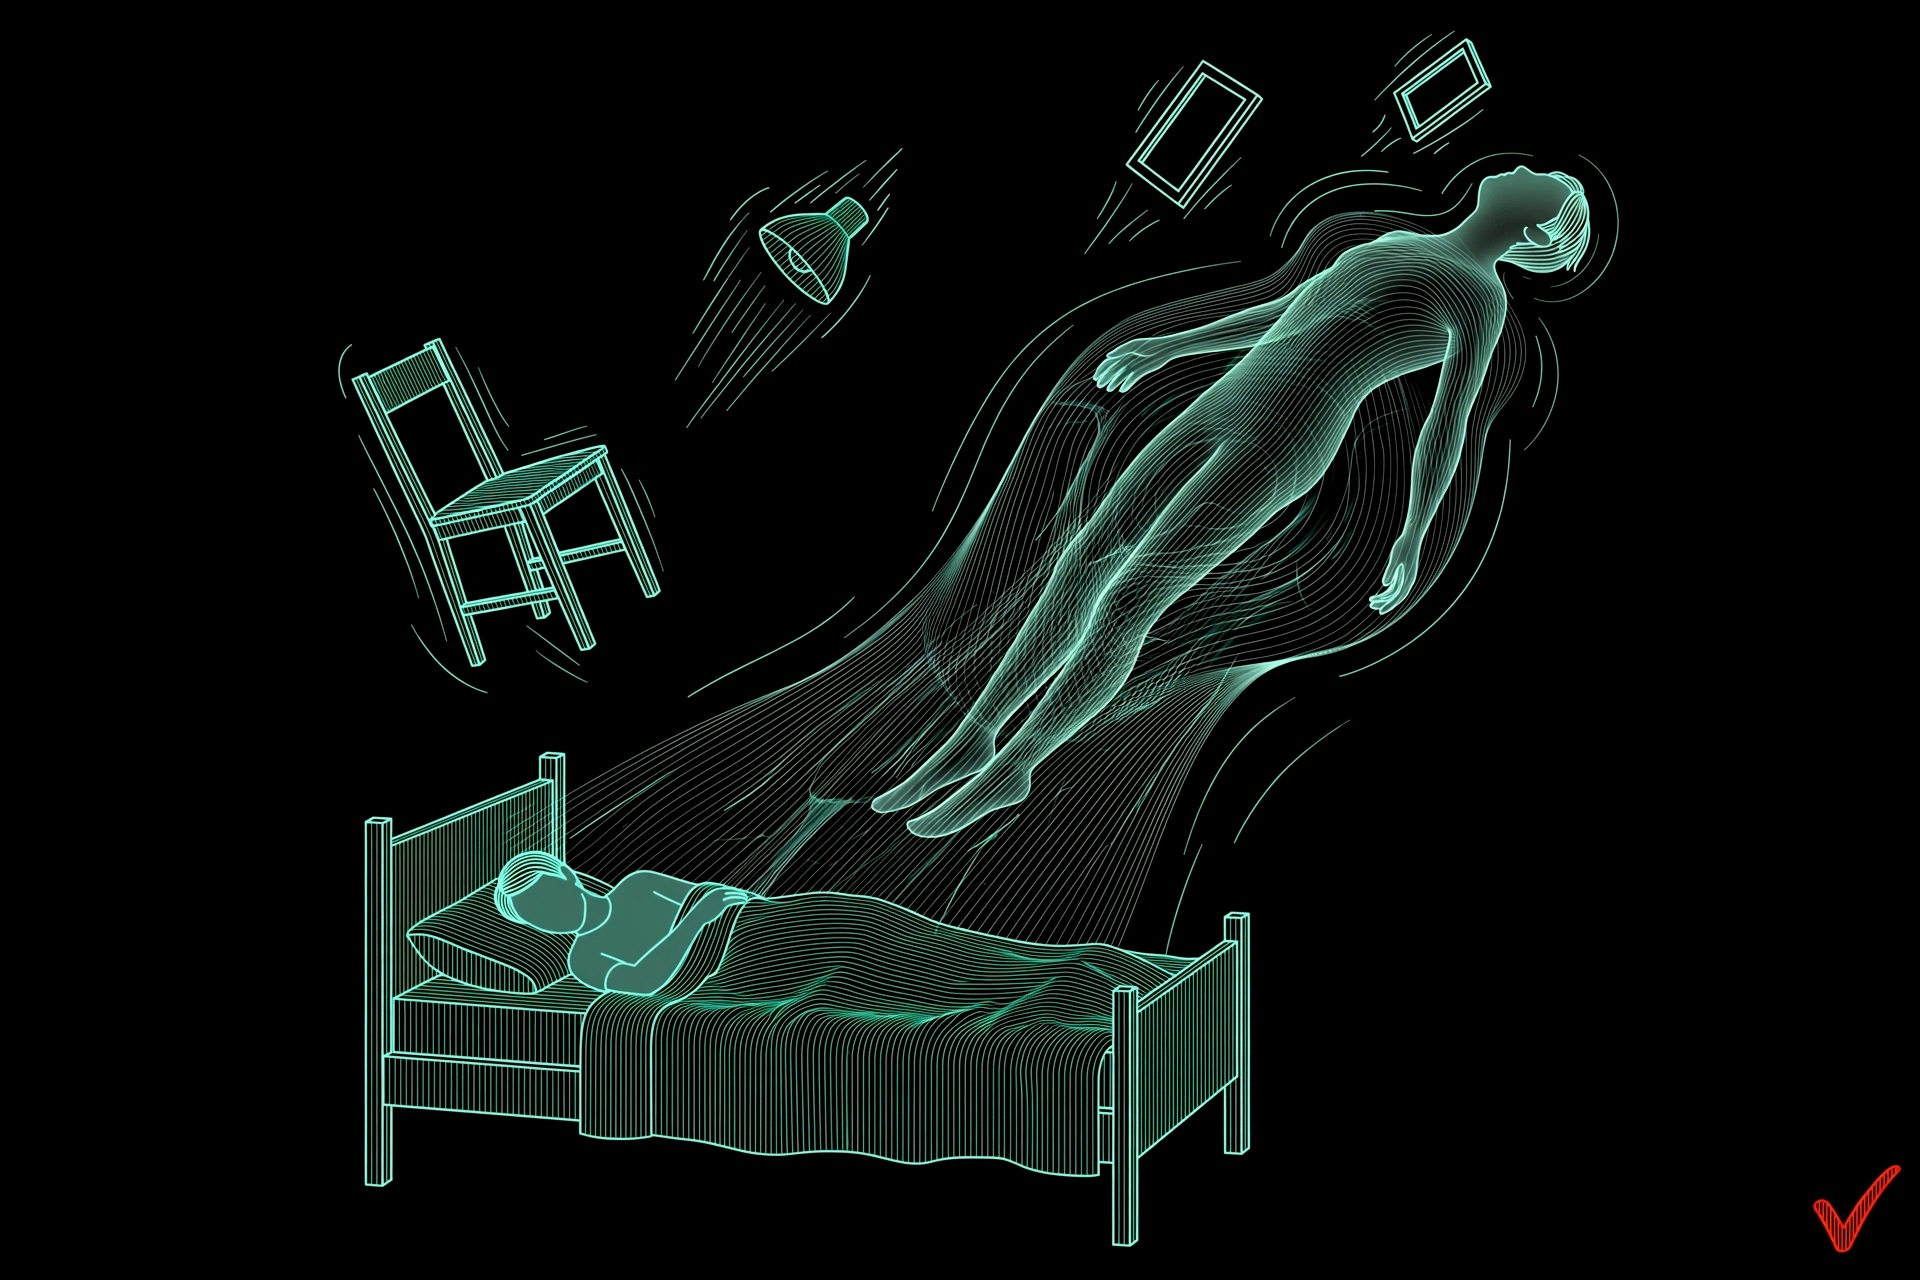
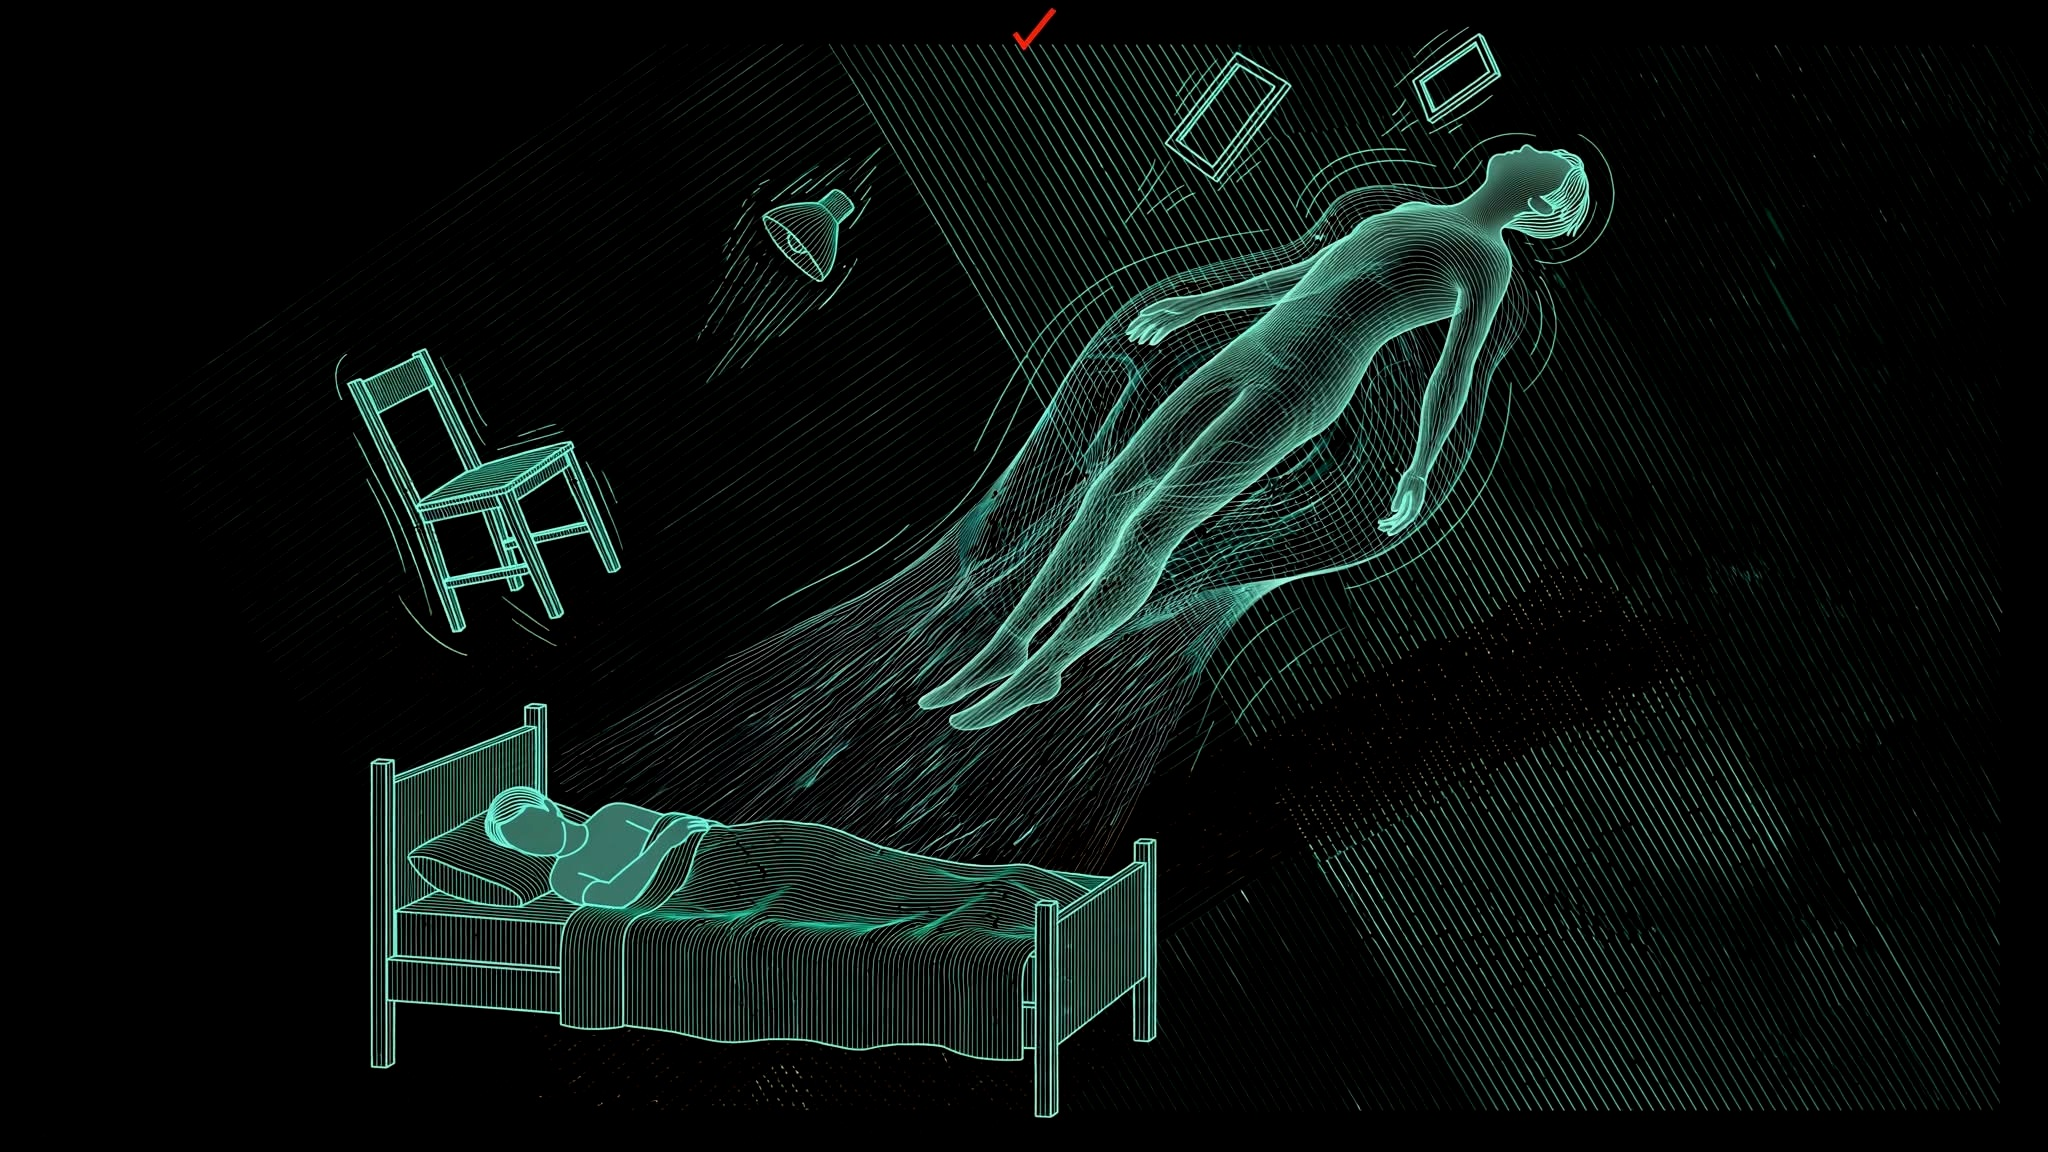
Dreams reel v4 B: regenerated matched-style frames (rest, levitation, soul pull)
Claude-Session: https://claude.ai/code/session_01CvwsJjwBDbHwT6fzsaVftT

diff --git a/tools/tickle/three/scene12b.js b/tools/tickle/three/scene12b.js
@@ -36,12 +36,12 @@ const partMat = (tex, dep, ds, d0, asp) => new THREE.ShaderMaterial({
       gl_FragColor=vec4(c*f*st*a*uOp,1.0); }`
 });
 const worlds = [];
-const WD = [{k: 'rest', w: 19, A: 0.0, D: 1.4, ds: 2}, {k: 'sleep', w: 14, A: 1.4, D: 1.7, ds: 3}, {k: 'soulpull', w: 14, A: 3.1, D: 2.6, ds: 3}, {k: 'bedfall', w: 14, A: 5.7, D: 3.0, ds: 3}, {k: 'brain', w: 13, A: 8.7, D: 2.6, ds: 2.2}, {k: 'head', w: 22, A: 11.3, D: 2.6, ds: 3}];
+const WD = [{k: 'rest', w: 19, A: 0.0, D: 1.4, ds: 2}, {k: 'sleep', w: 14, A: 1.4, D: 1.7, ds: 3}, {k: 'soulpull', w: 15, A: 3.1, D: 2.6, ds: 3}, {k: 'bedfall', w: 14, A: 5.7, D: 3.0, ds: 3}, {k: 'brain', w: 13, A: 8.7, D: 2.6, ds: 2.2}, {k: 'head', w: 22, A: 11.3, D: 2.6, ds: 3}];
 // part boxes in image coords (u0,v0,u1,v1; v down)
 const PARTS = {
   rest: {lamp: [0.22, 0.42, 0.37, 0.97], frames: [0.23, 0.04, 0.38, 0.37]},
-  sleep: {bed: [0.19, 0.38, 0.88, 0.92], objs: [0.0, 0.0, 0.82, 0.46]},
-  soulpull: {fig: [0.45, 0.11, 0.885, 0.70], objs: [0.17, 0.03, 0.80, 0.55]},
+  sleep: {bed: [0.20, 0.38, 0.80, 0.97], objs: [0.0, 0.0, 0.80, 0.45]},
+  soulpull: {fig: [0.44, 0.115, 0.79, 0.64], objs: [0.16, 0.03, 0.74, 0.56]},
   bedfall: {fig: [0.365, 0.083, 0.575, 0.517], frames: [0.01, 0.125, 0.43, 0.842], bed: [0.45, 0.417, 0.85, 0.942]},
   brain: {fig: [0.545, 0.46, 0.64, 0.76]},
   head: {fig: [0.465, 0.43, 0.56, 0.66]},
@@ -66,7 +66,7 @@ const [WR, WSl, WS, WB, WBr, WH] = worlds;
 
 // ---------- the dreamer's red tick: a real path through the whole fall ----------
 const startVec = WB.P(0.735, 0.47).sub(WB.P(0.545, 0.425));
-const soulStart = WS.P(0.40, 0.72).sub(WS.P(0.64, 0.40));
+const soulStart = WS.P(0.33, 0.74).sub(WS.P(0.62, 0.37));
 const soulOff = tl => { const q = clamp((tl - 0.5) / 1.6); return V3(soulStart.x * (1 - ease(q)), soulStart.y * (1 - ease(q)) + 0.18 * Math.sin(tl * 2.1) * q, 0); };
 function figOffset(i, tl) {
   if (i === 0 || i === 1) return V3(0, 0, 0);
@@ -75,7 +75,7 @@ function figOffset(i, tl) {
   if (i === 4) return V3(0.1 * Math.sin(tl * 2.2), -0.9 * tl - 0.12 * tl * tl, 0);
   return V3(0.05 * Math.sin(tl * 1.6), -0.38 * tl, 0);
 }
-function tickLocal(i, tl) { if (i === 0) return WR.P(0.5, 0.035).lerp(WR.P(0.69, 0.22).add(V3(0, 0.9, 0)), sm(tl / 0.9)); if (i === 1) { const rise = 0.9 * sm((tl - 1.0) / 0.7); return WSl.P(0.37, 0.46).add(V3(0, 0.9 + rise + 0.1 * Math.sin(tl * 3), 0)); } if (i === 2) { const q = clamp((tl - 0.5) / 1.6), a = WS.P(0.276, 0.655).add(V3(0, 0.12 * Math.sin(tl * 3), 0)), b = WS.P(0.795, 0.17).add(soulOff(tl)).add(V3(0, 0.9, 0)); return a.lerp(b, ease(q)); } const o = figOffset(i, tl); const base = i === 2 ? WS.P(0.64, 0.40) : i === 3 ? WB.P(0.545, 0.425) : i === 4 ? WBr.P(0.59, 0.60) : WH.P(0.51, 0.53); return base.add(o).add(V3(0, i === 2 ? 0.0 : i === 3 ? 0.95 : i === 4 ? 0.55 : 0.6, 0)); }
+function tickLocal(i, tl) { if (i === 0) return WR.P(0.5, 0.035).lerp(WR.P(0.69, 0.22).add(V3(0, 0.9, 0)), sm(tl / 0.9)); if (i === 1) { const rise = 0.9 * sm((tl - 1.0) / 0.7); return WSl.P(0.37, 0.46).add(V3(0, 0.9 + rise + 0.1 * Math.sin(tl * 3), 0)); } if (i === 2) { const q = clamp((tl - 0.5) / 1.6), a = WS.P(0.26, 0.64).add(V3(0, 0.12 * Math.sin(tl * 3), 0)), b = WS.P(0.75, 0.15).add(soulOff(tl)).add(V3(0, 0.9, 0)); return a.lerp(b, ease(q)); } const o = figOffset(i, tl); const base = i === 2 ? WS.P(0.62, 0.37) : i === 3 ? WB.P(0.545, 0.425) : i === 4 ? WBr.P(0.59, 0.60) : WH.P(0.51, 0.53); return base.add(o).add(V3(0, i === 2 ? 0.0 : i === 3 ? 0.95 : i === 4 ? 0.55 : 0.6, 0)); }
 const alignWorlds = () => { for (let k = 1; k < worlds.length; k++) { const a = tickLocal(k - 1, worlds[k - 1].D - TR), b = tickLocal(k, 0), dx = a.x - b.x, dy = a.y - b.y, w = worlds[k];
   w.C.x += dx; w.C.y += dy; w.base.position.x += dx; w.base.position.y += dy; Object.values(w.parts).forEach(p => { p.userData.rest.x += dx; p.userData.rest.y += dy; p.position.copy(p.userData.rest); });
   const pl = fieldMats[k].userData.plane; pl.position.x += dx; pl.position.y += dy; fieldMats[k].uniforms.uA.value.x += dx; fieldMats[k].uniforms.uA.value.y += dy; } };
@@ -135,7 +135,7 @@ const keys = (arr, tl) => { for (let i = 0; i < arr.length - 1; i++) if (tl <= a
 const DIST = [[[0, 21], [0.85, 12]], [[0, 11], [1.0, 12.5], [1.15, 12.5]], [[0, 9], [0.7, 10.5], [1.9, 22], [2.05, 22]], [[0, 9], [0.6, 9.5], [1.9, 18], [2.3, 19], [2.45, 18]], [[0, 22], [1.0, 22], [2.05, 16], [2.2, 15]], [[0, 25], [1.2, 22], [2.6, 16]]];
 function distAt(i, tl) { return keys(DIST[i], tl); }
 function targetFor(i, tl, tick) { const tg = tick.clone(); if (i === 0) tg.lerp(WR.P(0.56, 0.52), 0.85 * (1 - sm((tl - 0.3) / 0.6)));
-  if (i === 2) tg.lerp(WS.P(0.62, 0.42).add(soulOff(tl)), 0.65 * sm((tl - 0.9) / 0.9)); if (i === 4) tg.lerp(WBr.P(0.5, 0.5), 0.55 * (1 - sm(tl / 1.6))); if (i === 5) tg.lerp(WH.P(0.68, 0.23), 0.65 * sm((tl - 0.1) / 0.5) * (1 - sm((tl - 1.7) / 0.6)));
+  if (i === 2) tg.lerp(WS.P(0.60, 0.40).add(soulOff(tl)), 0.65 * sm((tl - 0.9) / 0.9)); if (i === 4) tg.lerp(WBr.P(0.5, 0.5), 0.55 * (1 - sm(tl / 1.6))); if (i === 5) tg.lerp(WH.P(0.68, 0.23), 0.65 * sm((tl - 0.1) / 0.5) * (1 - sm((tl - 1.7) / 0.6)));
   return tg; }
 function frameAt(t) {
   let i = worlds.length - 1; for (let k = 0; k < worlds.length - 1; k++) if (t < worlds[k + 1].A) { i = k; break; }
@@ -165,11 +165,11 @@ window.renderAt = t => {
       const q = clamp((lt - 0.5) / 1.6), e = ease(q), F = w.parts.fig.material.uniforms, O = w.parts.objs.material.uniforms;
       w.base.material.uniforms.uTeal.value = 1.25 + 0.15 * Math.sin(lt * 3.0); w.base.material.uniforms.uRed.value = 1.5; // the sleeper breathes and stays
       pr(2, 'fig', {p: soulOff(lt), s: lerp(0.8, 1, e), rz: lerp(-0.25, 0, e)});
-      F.uRev.value.set(0.64, 0.42, 0.04 + 0.9 * sm((lt - 0.45) / 1.2)); F.uOp.value *= sm((lt - 0.45) / 0.4); F.uTeal.value = 1.5; F.uPulse.value.set(0.5, 0.45, ((lt * 0.8) % 1) * 0.6, 0.45);
+      F.uRev.value.set(0.47, 0.41, 0.04 + 0.9 * sm((lt - 0.45) / 1.2)); F.uOp.value *= sm((lt - 0.45) / 0.4); F.uTeal.value = 1.5; F.uPulse.value.set(0.5, 0.45, ((lt * 0.8) % 1) * 0.6, 0.45);
       pr(2, 'objs', {p: V3(0.22 * lt, 0.45 * lt, 0), rz: 0.03 * lt}); O.uOp.value *= sm((lt - 1.0) / 0.6); O.uTeal.value = 1.4;
     } else if (wi === 3) {
       setAll(u => { u.uRed.value = 1.3 + 1.2 * (0.5 + 0.5 * Math.sin(lt * 8)); });
-      WB.base.material.uniforms.uTeal.value = 0.12; WB.base.material.uniforms.uRed.value = 0.2; // drop the hatch panel; the action is in the parts
+      WB.base.material.uniforms.uTeal.value = 0.4; WB.base.material.uniforms.uRed.value = 0.2; // drop the hatch panel; the action is in the parts
       WB.parts.fig.material.uniforms.uTeal.value = 1.7; WB.parts.frames.material.uniforms.uTeal.value = 1.4;
       pr(3, 'fig', {s: 1.25, p: figOffset(3, lt), rz: 0.35 * (1 - easeOut(lt / 0.9)) + 0.06 * Math.sin(lt * 2.2)}); WB.parts.frames.material.uniforms.uOp.value *= sm((lt - 0.1) / 0.5);
       // the sleeper stays: breathing glow on the bed while the dream body leaves

diff --git a/tools/tickle/three/prep_dreams_v3.py b/tools/tickle/three/prep_dreams_v3.py
@@ -21,9 +21,9 @@ K = {
     "heaven": ("20261015_145928", None, (0.52, 0.35), 0.04),
     "eye": ("20261015_145844", None, (0.5, 0.52), 0.10),
     "bed": ("20261015_144811", None, (0.52, 0.30), 0.25),
-    "rest": ("rest0", None, (0.69, 0.22), 0.1),
-    "sleep": ("20261015_164748", None, (0.37, 0.46), 0.2),
-    "soulpull": ("20261015_165026", None, (0.64, 0.40), 0.5),
+    "rest": ("rest1", None, (0.69, 0.22), 0.1),
+    "sleep": ("lev1", None, (0.365, 0.46), 0.2),
+    "soulpull": ("soul1", None, (0.62, 0.37), 0.5),
     "sleeper": ("20261015_144736", None, (0.5, 0.2), 0.3),
     "head": ("20261015_153816", None, (0.51, 0.53), 0.08),
     "rem": ("20261015_153813", None, (0.56, 0.60), 0.10),
@@ -32,7 +32,7 @@ K = {
     "lucid": ("20261015_153812", None, (0.55, 0.51), 0.40),
     "loopcard": ("20261015_153807_1", None, (0.50, 0.45), 0.03),
 }
-MASK = {"bedfall": (0, 0, 0.09, 0.07), "rest": (0, 0, 0.12, 0.08)}
+MASK = {"bedfall": (0, 0, 0.09, 0.07), "rest": (0, 0, 0.12, 0.08), "soulpull": (0, 0, 0.12, 0.08)}
 s = ort.InferenceSession(model); mean = np.array([0.485, 0.456, 0.406]); std = np.array([0.229, 0.224, 0.225]); meta = json.load(open('assets/dreams/v3_meta.json')) if os.path.exists('assets/dreams/v3_meta.json') else {}
 ONLY = os.environ.get('ONLY')
 for k, (f, c, anc, fh) in K.items():
